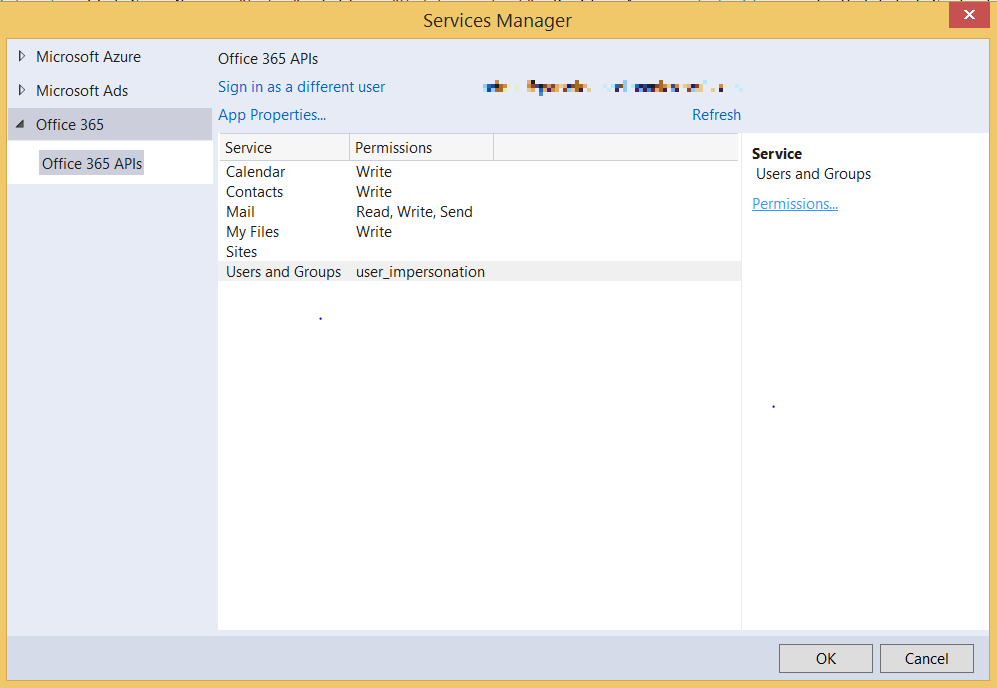
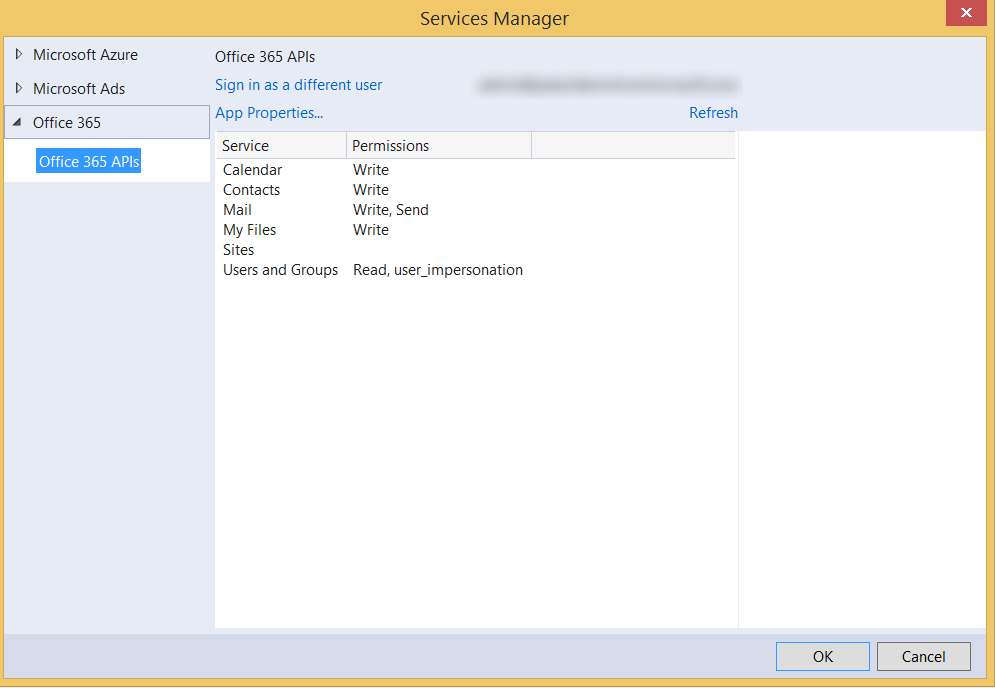
updates to connected services instructions

diff --git a/README.md b/README.md
@@ -52,7 +52,7 @@ You can register the app with the Office 365 API Tools for Visual Studio. Be sur
 	- **Contacts** - Have full access to users' contacts.
 	- **Mail** - Read and write access to users' mail. Send mail as a user.
 	- **My Files** - Edit or delete users' files.
-	- **Users and Groups** - Access your organization's directory. 
+	- **Users and Groups** - Enable sign-on and read users' profiles. Access your organization's directory. 
 	
 
 The dialog will look like this:
